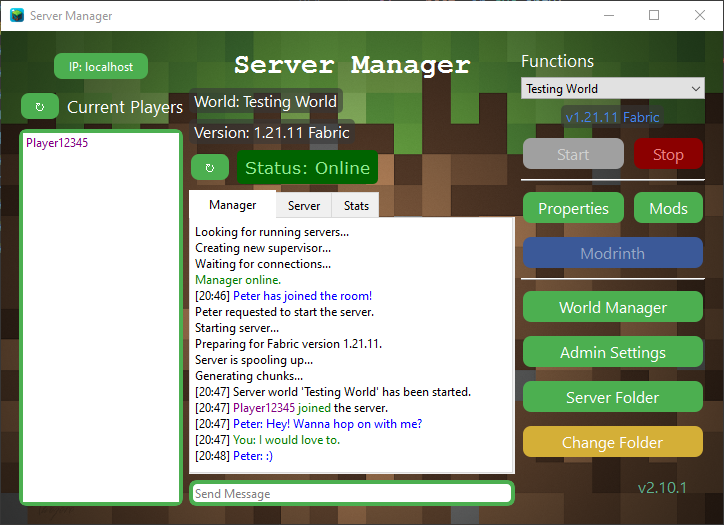
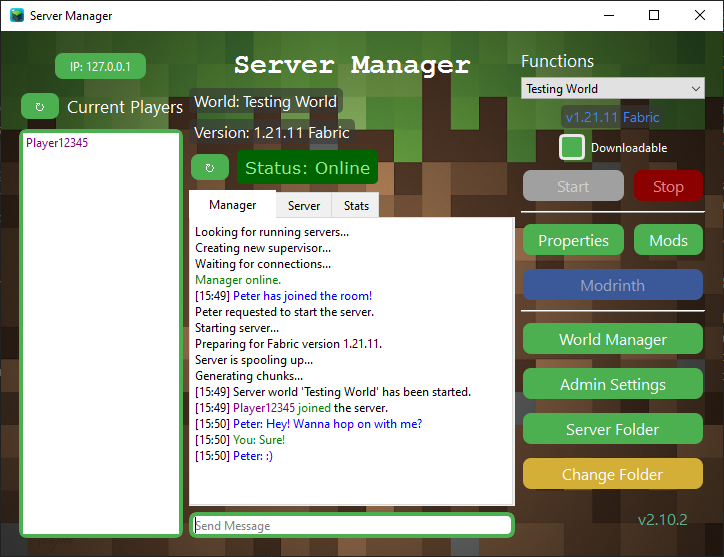
Offline parity with host and Readme update.

diff --git a/manager.py b/manager.py
@@ -891,6 +891,7 @@ class ServerManagerApp(QMainWindow):
             self.world_label.setText("")
             self.refresh_button.setEnabled(False)
             self.players_info_box.clear()
+            self.players_info_box.append("<font color='red'>Server offline</font>")
             self.refresh_status_button.setEnabled(True)
             self.start_button.setEnabled(True)
             self.stop_button.setEnabled(False)

diff --git a/README.md b/README.md
@@ -14,7 +14,10 @@ Through this manager, both the host and clients have the ability to
 - Query the current players on the server.
 - Query the current status of the server including the version and the world name.
 - Chat with others connected to the manager.
+
+Clients have the ability to
 - Download mods directly from the host. The host can select mods for each Fabric world that can be downloaded from them.
+- Download worlds directly from the host, if the host has chosen to allow it.
   
 The host has the ability to
 - Choose what worlds they would like the clients to be able to choose from (including worlds running Fabric.)
